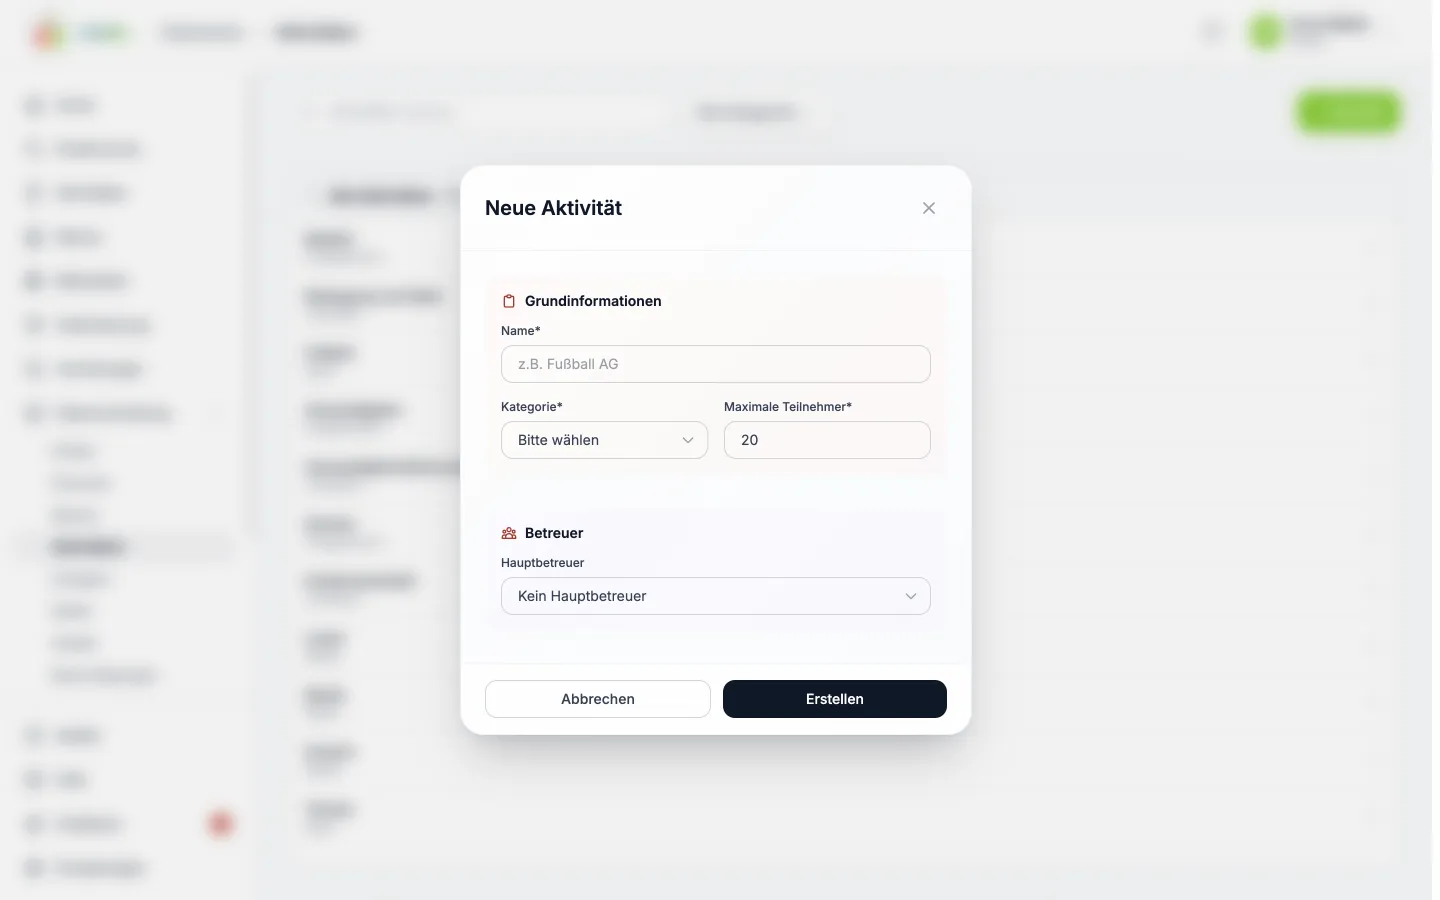
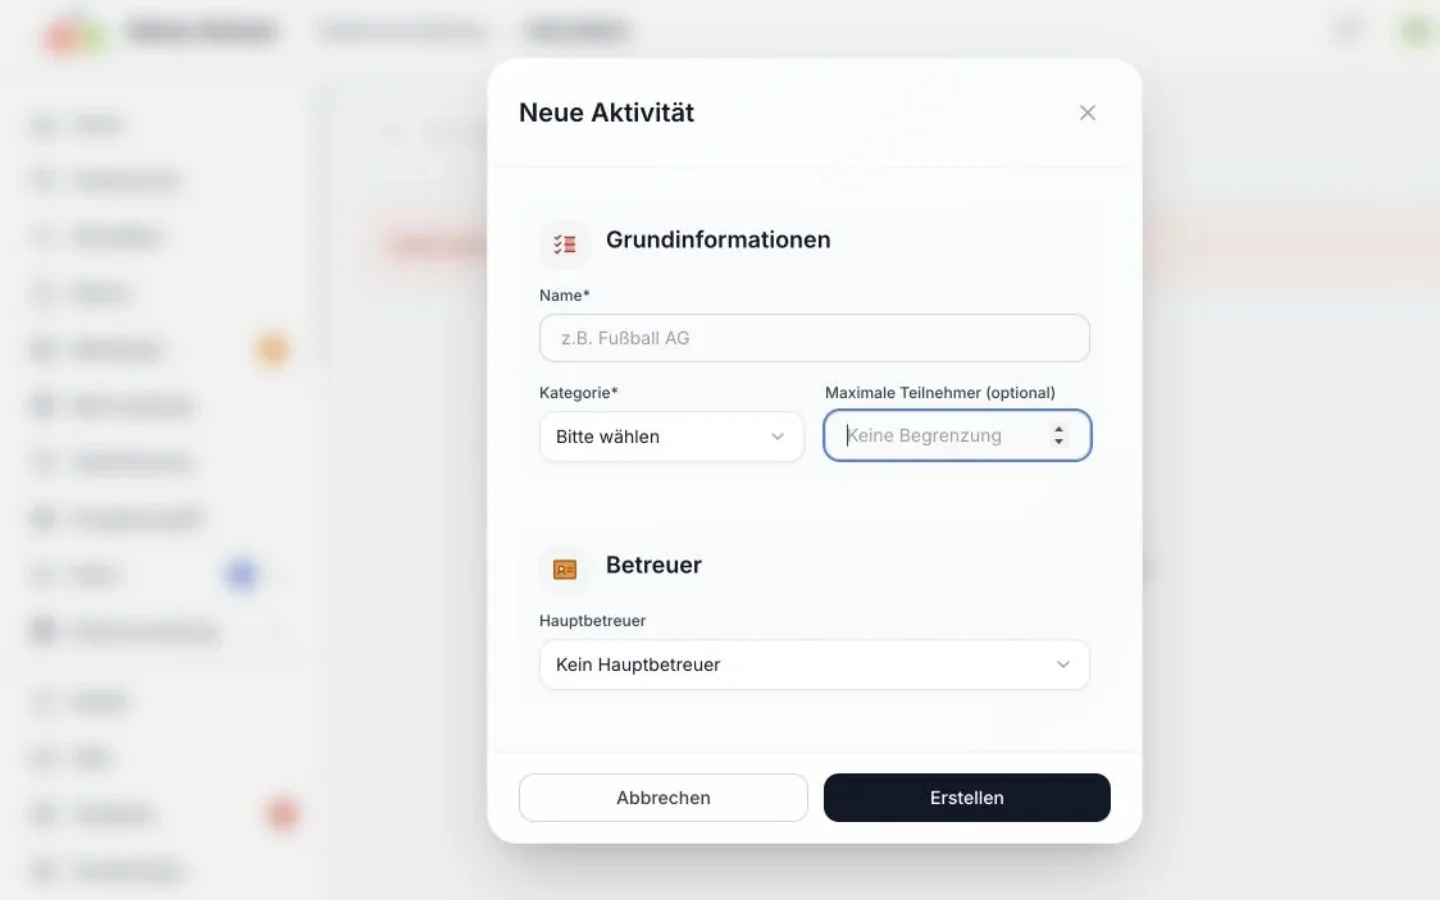
fix: korrigiere unbegrenzte Aktivitäten

diff --git a/frontend/src/components/activities/quick-create-modal.tsx b/frontend/src/components/activities/quick-create-modal.tsx
@@ -12,6 +12,7 @@ import { useToast } from "~/contexts/ToastContext";
 import { Alert } from "~/components/ui/alert";
 import { Button } from "~/components/ui/button";
 import { CustomSelect } from "~/components/ui/custom-select";
+import { Checkbox } from "~/components/ui/checkbox";
 import { FormModal } from "~/components/ui/form-modal";
 import { SpinnerIcon } from "~/components/ui/icons";
 import { getApiErrorMessage } from "~/lib/api-error-message";
@@ -349,9 +350,12 @@ export function QuickCreateActivityModal({
                   />
                 </button>
               </div>
-              <label className="mt-3 flex min-h-11 cursor-pointer items-center gap-3 text-sm text-gray-700">
-                <input
-                  type="checkbox"
+              <label
+                htmlFor="quick-create-no-participant-limit"
+                className="mt-3 flex min-h-11 cursor-pointer items-center gap-3 text-sm text-gray-700"
+              >
+                <Checkbox
+                  id="quick-create-no-participant-limit"
                   checked={!form.max_participants}
                   onChange={(event) =>
                     setForm((prev) => ({
@@ -359,7 +363,6 @@ export function QuickCreateActivityModal({
                       max_participants: event.target.checked ? "" : "15",
                     }))
                   }
-                  className="text-moto-blue focus:ring-moto-blue h-5 w-5 rounded border-gray-300"
                 />
                 Keine Begrenzung
               </label>

diff --git a/frontend/src/components/activities/activity-management-modal.tsx b/frontend/src/components/activities/activity-management-modal.tsx
@@ -16,6 +16,7 @@ import { createLogger } from "~/lib/logger";
 import { Alert } from "~/components/ui/alert";
 import { Button } from "~/components/ui/button";
 import { CustomSelect } from "~/components/ui/custom-select";
+import { Checkbox } from "~/components/ui/checkbox";
 import { FormModal } from "~/components/ui/form-modal";
 import { SpinnerIcon } from "~/components/ui/icons";
 import { getApiErrorMessage } from "~/lib/api-error-message";
@@ -500,9 +501,12 @@ export function ActivityManagementModal({
                   />
                 </button>
               </div>
-              <label className="mt-3 flex min-h-11 cursor-pointer items-center gap-3 text-sm text-gray-700">
-                <input
-                  type="checkbox"
+              <label
+                htmlFor="activity-no-participant-limit"
+                className="mt-3 flex min-h-11 cursor-pointer items-center gap-3 text-sm text-gray-700"
+              >
+                <Checkbox
+                  id="activity-no-participant-limit"
                   checked={!form.max_participants}
                   onChange={(event) =>
                     setForm((prev) => ({
@@ -511,7 +515,6 @@ export function ActivityManagementModal({
                     }))
                   }
                   disabled={readOnly}
-                  className="text-moto-blue focus:ring-moto-blue h-5 w-5 rounded border-gray-300 disabled:cursor-not-allowed"
                 />
                 Keine Begrenzung
               </label>

diff --git a/frontend/src/components/ui/database/database-form.test.tsx b/frontend/src/components/ui/database/database-form.test.tsx
@@ -848,6 +848,41 @@ describe("DatabaseForm", () => {
     });
   });
 
+  it("preserves a null initial number as an empty field", async () => {
+    const sections: FormSection[] = [
+      {
+        title: "Kapazität",
+        fields: [
+          {
+            name: "max_participant",
+            label: "Maximale Teilnehmer",
+            type: "number",
+            required: false,
+            min: 1,
+          },
+        ],
+      },
+    ];
+    const onSubmit = vi.fn().mockResolvedValue(undefined);
+
+    render(
+      <DatabaseForm
+        {...defaultProps}
+        sections={sections}
+        initialData={{ max_participant: null }}
+        onSubmit={onSubmit}
+      />,
+    );
+
+    const input = screen.getByRole("spinbutton");
+    await waitFor(() => expect(input).toHaveValue(null));
+
+    fireEvent.click(screen.getByRole("button", { name: "Speichern" }));
+    await waitFor(() =>
+      expect(onSubmit).toHaveBeenCalledWith({ max_participant: null }),
+    );
+  });
+
   it("preserves unsaved edits when privacy consent revalidates", async () => {
     const sections: FormSection[] = [
       {

diff --git a/frontend/src/components/help/guide-data.ts b/frontend/src/components/help/guide-data.ts
@@ -372,7 +372,7 @@ export const setupChapters: readonly GuideChapter[] = [
           "Neue Aktivität anlegen.",
           "`Name` kurz und verständlich eintragen.",
           "`Kategorie` wählen.",
-          "`Maximale Teilnehmer` eintragen, wenn eine Grenze gilt.",
+          "`Maximale Teilnehmer` eintragen, wenn eine Grenze gilt. Ohne Kapazitätsgrenze das Feld leeren, sodass `Keine Begrenzung` angezeigt wird.",
           "Speichern.",
         ],
         callout: {
@@ -381,7 +381,7 @@ export const setupChapters: readonly GuideChapter[] = [
           tone: "blue",
         },
         screenshot:
-          "Aktivitätsformular mit Name, Kategorie und maximale Teilnehmer.",
+          "Aktivitätsformular mit Name, Kategorie und der Option `Keine Begrenzung`.",
         image: "/help/screens/aktivitaeten-anlegen.webp",
       },
     ],

diff --git a/frontend/src/components/database/configs/activities.config.tsx b/frontend/src/components/database/configs/activities.config.tsx
@@ -405,10 +405,15 @@ export const activitiesConfig = defineEntityConfig<Activity>({
 
   service: {
     mapRequest: (data: Partial<Activity>): Record<string, unknown> => {
+      const maxParticipants = data.max_participant as unknown;
+
       // Convert frontend Activity to backend format
       const request: Record<string, unknown> = {
         name: data.name,
-        max_participants: data.max_participant ?? null,
+        max_participants:
+          maxParticipants === "" || maxParticipants == null
+            ? null
+            : maxParticipants,
         category_id: data.ag_category_id
           ? Number.parseInt(data.ag_category_id, 10)
           : undefined,

diff --git a/frontend/src/components/ui/database/database-form.tsx b/frontend/src/components/ui/database/database-form.tsx
@@ -97,13 +97,15 @@ function applyInitialData<T>(
 
   for (const key of Object.keys(initialData)) {
     const value = initialData[key as keyof T];
-    if (value === undefined || value === null) {
+    if (value === undefined) {
       continue;
     }
 
     // Convert string to number if field type requires it
     const field = allFields.find((f) => f.name === key);
-    if (field?.type === "number" && typeof value === "string") {
+    if (value === null) {
+      formData[key] = null;
+    } else if (field?.type === "number" && typeof value === "string") {
       formData[key] = Number.parseInt(value, 10) || 0;
     } else {
       formData[key] = value;

diff --git a/frontend/src/components/database/configs/activities.config.test.tsx b/frontend/src/components/database/configs/activities.config.test.tsx
@@ -179,6 +179,21 @@ describe("activitiesConfig", () => {
     });
   });
 
+  it("maps an empty participant limit to null", () => {
+    const data = {
+      name: "Test Activity",
+      max_participant: "",
+      ag_category_id: "3",
+    } as unknown as Partial<Activity>;
+
+    const mapped = activitiesConfig.service?.mapRequest?.(data);
+    expect(mapped).toEqual({
+      name: "Test Activity",
+      max_participants: null,
+      category_id: 3,
+    });
+  });
+
   it("maps response data correctly", () => {
     const responseData = {
       id: "1",

diff --git a/backend/database/migrations/001015283_optional_activity_capacity_test.go b/backend/database/migrations/001015283_optional_activity_capacity_test.go
@@ -13,8 +13,8 @@ func TestOptionalActivityCapacity(t *testing.T) {
 	db := testpkg.SetupTestDB(t)
 	defer func() { _ = db.Close() }()
 
-	const tenantID int64 = 22361
-	testpkg.EnsureTestTenant(t, db, tenantID)
+	tenantID, _ := testpkg.CreateTestTenant(t, db)
+	defer testpkg.CleanupTestTenant(t, db, tenantID)
 	defer testpkg.CleanupTenantTestData(t, db, tenantID)
 
 	ctx := context.Background()
